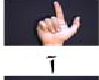
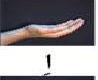
Add Persian re, and fix alef showing alef madda's hand
ZEI_3, which the other Persian signs come from, is captioned "Static
sign of Persian hand alphabet" and leaves out the two signs that move.
One of them is re, which half the word list needs. ZEI_1 is the same
photographs but the whole alphabet, so re comes from there. Its card
says it is a moving sign — ZEI_2 draws it as the ze hand with motion
strokes off the fingertips — and that the picture is a single frame.

Reading the chart for that turned up an off-by-one in its first row.
That row is alef's forms right to left: alef madda, alef carrying a, e
and o, then alef-vav. It was read as starting with bare alef, so alef
had been carrying alef madda's handshape, and alef madda had none. Alef
is the middle cell, the flat open hand; both are right now.

Persian goes from 31 handshapes to 33, and its fingerspelling-reading
deck from 13 words to 27 of 28.

diff --git a/slice_handshapes.py b/slice_handshapes.py
@@ -92,16 +92,21 @@ CHARTS = {
         "isolate": "trim",
         "field": "handshape",
     },
+    # ZEI_3 is captioned "Static sign of Persian hand alphabet" and leaves
+    # out the two letters that move. One of them is re, which is in half the
+    # word list, so it is taken from ZEI_1 below instead.
     "farsi": {
         "file": "ZEI_3.PNG",
         "trim_px": (4, 4, 4, 26), 
         "crop": (6, 6, 500, 566),
         "rows": 7, "cols": 5,
         "rtl": True,
-        # Top row holds vowel forms; only the first maps to a letter here.
-        # This chart omits ر entirely, so re has no image.
+        # The top row is alef's forms, read right to left: alef madda, then
+        # alef carrying a, e and o, then alef-vav. Only the first and the
+        # middle one are letters in this list, and the row was read as
+        # starting with bare alef, which gave alef the madda's hand.
         "cells": [
-            "ا", None, None, None, None,
+            "آ", None, "ا", None, None,
             "ب", "پ", "ت", "ث", "ج",
             "چ", "ح", "خ", "د", "ذ",
             "ز", "ژ", "س", "ش", "ص",
@@ -328,6 +333,34 @@ def apply_kana_moves(shapes, fsws):
         json.dump(doc, fh, ensure_ascii=False, indent=2)
         fh.write("\n")
     return n
+
+
+# ZEI_1 is the same photographs as ZEI_3 but is the whole alphabet, not only
+# the still half, so it is where the two moving letters are. Only re is wanted:
+# the other, ای, is a vowel digraph rather than a letter of the alphabet.
+# Measured against ZEI_1's grid: seven columns across, re is the third cell
+# from the right of the third row.
+ZEI_DYNAMIC = {"\u0631": ("ZEI_1.JPG", (343, 218, 420, 282))}
+
+
+def slice_zei_dynamic(verbose=True):
+    out = {}
+    for glyph, (fname, box) in ZEI_DYNAMIC.items():
+        path = os.path.join(SRC, fname)
+        if not os.path.exists(path):
+            print(f"  farsi: missing {fname}")
+            continue
+        raw = Image.open(path).convert("RGB").crop(box)
+        name = f"{ord(glyph):04x}"
+        raw_dir = os.path.join(OUT_ROOT, "farsi", "raw")
+        os.makedirs(raw_dir, exist_ok=True)
+        raw.save(os.path.join(raw_dir, f"{name}.png"))
+        rel = f"images/handshapes/farsi/{name}.png"
+        raw.save(os.path.join(HERE, rel))
+        out[glyph] = rel
+    if verbose:
+        print(f"  farsi: {len(out)} moving letter from ZEI_1")
+    return out
 
 
 # Korean comes from three screenshots rather than the single KSL_2 chart,
@@ -824,6 +857,8 @@ def main(argv):
             print(f"  {slug}: no chart configured")
             continue
         mapping = slice_chart(slug, cfg)
+        if slug == "farsi" and mapping:
+            mapping.update(slice_zei_dynamic())
         if mapping:
             n = apply_to_data(slug, cfg, mapping)
             print(f"    wrote {n} paths into {slug}.json ({cfg['field']})")

diff --git a/script_content.py b/script_content.py
@@ -629,6 +629,10 @@ NOTES["arabic"] = {
 NOTES["farsi"] = {
  "ث": "One of three letters written differently but all said /s/: ث س ص.",
  "ذ": "One of four letters all said /z/: ذ ز ض ظ. The spellings are inherited from Arabic.",
+ "ر": "The only letter of the alphabet signed with a movement: the ز hand, "
+      "held while the fingertips move. The chart the other signs here come "
+      "from prints the still letters only, so this one is a single frame "
+      "taken from the full chart.",
  "ط": "Said /t/, the same as ت, despite the different letter.",
  "ق": "Merged with غ for most speakers, as /ɣ/ between vowels and /ɢ/ elsewhere.",
  "و": "Consonant /v/, or a long /uː/, or /o/ in a few common words.",
